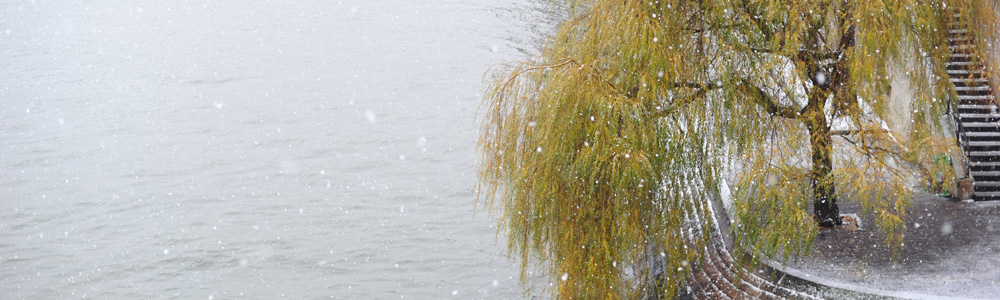
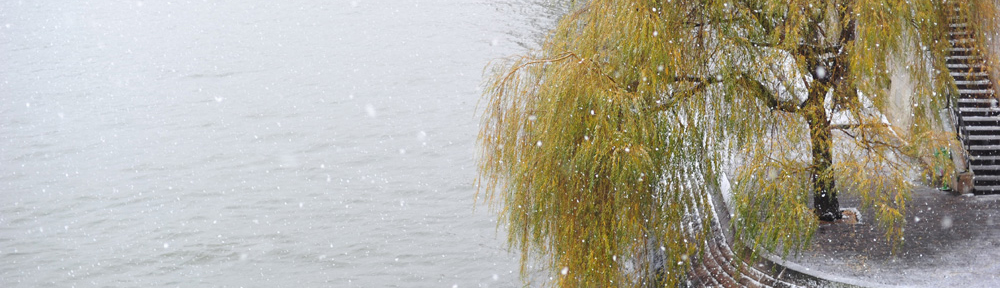
Twenty Eleven: adding RTL editor styles and tighter header height - see #17198
git-svn-id: https://develop.svn.wordpress.org@17830 602fd350-edb4-49c9-b593-d223f7449a82

diff --git a/trunk/wp-content/themes/twentyeleven/style.css b/trunk/wp-content/themes/twentyeleven/style.css
@@ -474,7 +474,7 @@ a:hover {
 	z-index: 2;
 }
 #site-title {
-	padding: 4em 0 0;
+	padding: 3.65625em 0 0;
 }
 #site-title a {
 	color: #111;
@@ -486,7 +486,7 @@ a:hover {
 #site-description {
 	color: #7a7a7a;
 	font-size: 14px;
-	margin: 0 0 4em;
+	margin: 0 0 3.65625em;
 }
 #branding img {
 	height: auto;
@@ -578,7 +578,7 @@ a:hover {
 /* Search Form */
 #branding #searchform {
 	position: absolute;
-	top: 4.3em;
+	top: 3.8em;
 	right: 7.6%;
 	text-align: right;
 }
@@ -1468,6 +1468,10 @@ p img,
 	top: 7px;
 }
 .gallery-caption {
+}
+img#wpstats {
+    display: block;
+    margin: 0 auto 1.625em;
 }
 
 

diff --git a/trunk/wp-content/themes/twentyeleven/editor-style-rtl.css b/trunk/wp-content/themes/twentyeleven/editor-style-rtl.css
@@ -1,0 +1,23 @@
+/*
+Theme Name: Twenty Eleven
+*/
+/*
+Used to style the TinyMCE editor.
+*/
+html .mceContentBody{
+	direction:rtl;
+	unicode-bidi:embed;
+	float:right;
+}
+* {
+	font-family: Arial, Tahoma, sans-serif;
+}
+ul, ol {
+	margin: 0 2.5em 1.625em 0;
+}
+blockquote {
+	font-style: normal;
+}
+table {
+	text-align: right;
+}

diff --git a/trunk/wp-content/themes/twentyeleven/functions.php b/trunk/wp-content/themes/twentyeleven/functions.php
@@ -124,7 +124,7 @@ function twentyeleven_setup() {
 	// The height and width of your custom header. You can hook into the theme's own filters to change these values.
 	// Add a filter to twentyeleven_header_image_width and twentyeleven_header_image_height to change these values.
 	define( 'HEADER_IMAGE_WIDTH', apply_filters( 'twentyeleven_header_image_width', 1000 ) );
-	define( 'HEADER_IMAGE_HEIGHT', apply_filters( 'twentyeleven_header_image_height', 300 ) );
+	define( 'HEADER_IMAGE_HEIGHT', apply_filters( 'twentyeleven_header_image_height', 288 ) );
 
 	// We'll be using post thumbnails for custom header images on posts and pages.
 	// We want them to be 940 pixels wide by 198 pixels tall.
